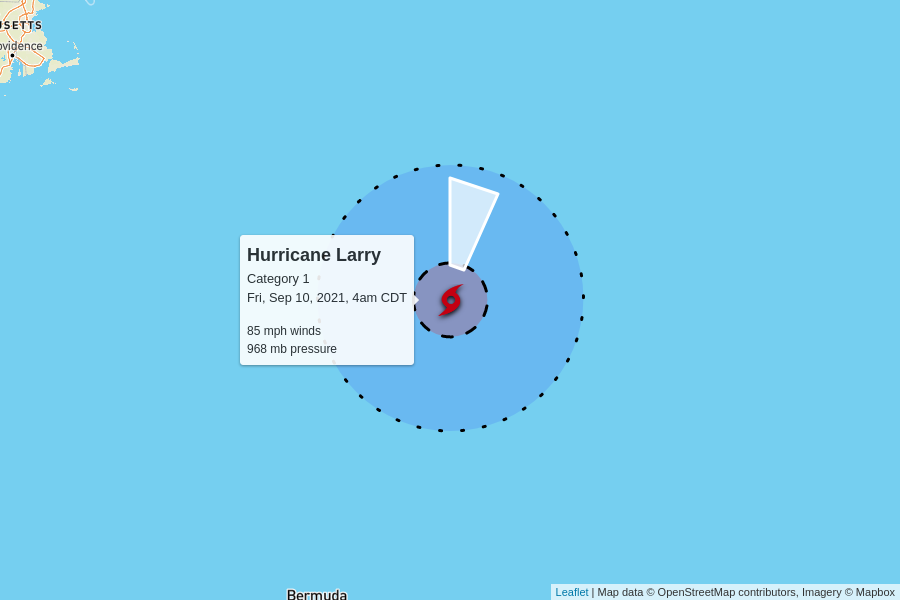
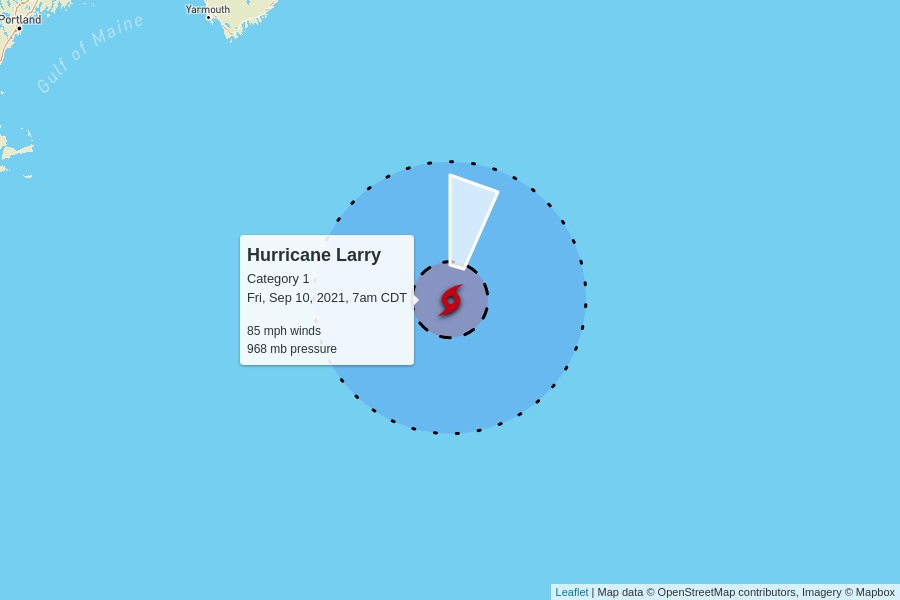
automatic update

diff --git a/docs/index.html b/docs/index.html
@@ -100,7 +100,7 @@
         <td colspan="6" class="storm category-1">
           <h2>
             Hurricane Larry - Category 1
-            <p class="updated">last updated <span data-time>2021-09-10T09:00:00.000Z</span></p>
+            <p class="updated">last updated <span data-time>2021-09-10T12:00:00.000Z</span></p>
           </h2>
         </td>
       </tr>
